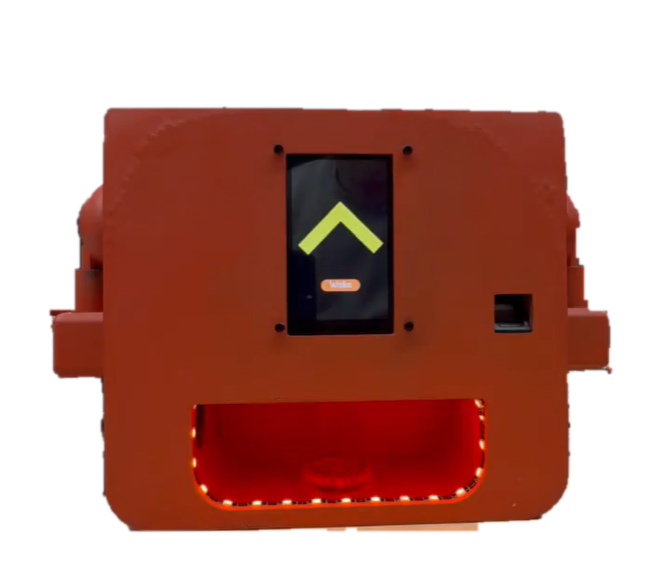
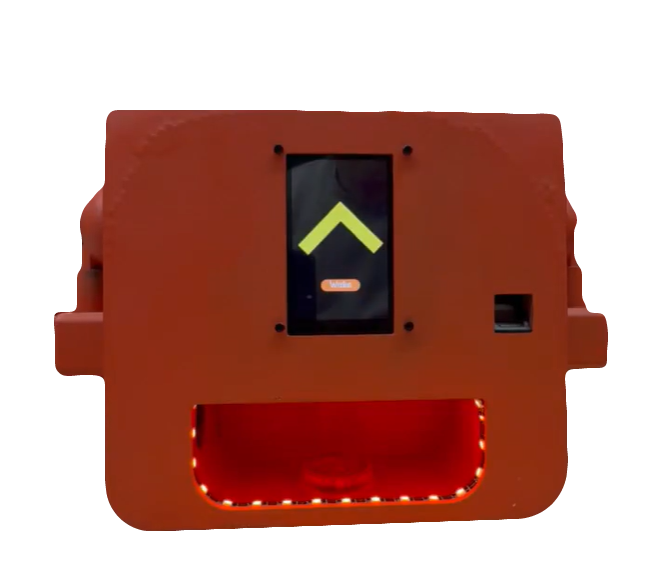
update home page images

diff --git a/src/Home.jsx b/src/Home.jsx
@@ -39,7 +39,8 @@ const projects = [
   },
   {
     title: "Robotic Arm",
-    image: "/img/Robot/Arm.jpg",
+    image: "/img/Robot/ArmWhite.jpg",
+    zoomOut: true,
     to: "/projects/Robot",
     type: "hardware",
     desc: "A servo-controlled robotic arm with EMG sensor integration, computer vision, and adjustable motion control.",
@@ -81,7 +82,8 @@ const projects = [
   },
   {
     title: "Farmadillo",
-    image: "/img/Greenhouse/FinalProduct.png",
+    image: "/img/Greenhouse/FinalProductWhite.png",
+    zoomOut: true,
     to: "/projects/Farmadillo",
     type: "hardware",
     desc: "An automated greenhouse system that responds to environmental data and keeps plants growing at optimal conditions.",
